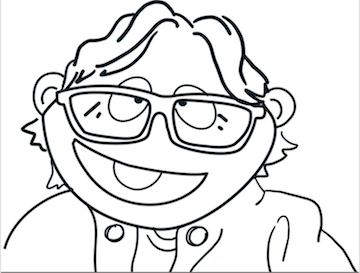
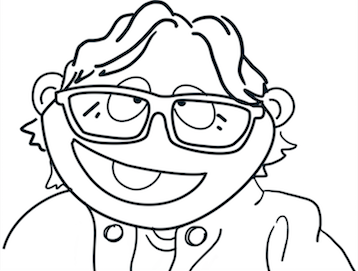
UI updates

diff --git a/main.css b/main.css
@@ -136,14 +136,25 @@ header .sub-title {
 .callout {
     background-color: #6f0e1b;
     background: linear-gradient(45deg, #960849 0%, #ea6c2f 100%);
-    padding: 1rem 2rem;
+    /* padding: 1rem 2rem; */
     text-align: center;
 }
 
 .callout a {
+    display: block;
+    width: 100%;
+    padding: 1rem 2rem;
     color: #fff;
     vertical-align: middle;
     text-decoration: none;
+
+    transition: 0.3s;
+}
+
+.callout a:hover,
+.callout a:focus {
+    background-color: rgba(0,0,0,0.5);
+    /* background-color: rgba(111, 14, 27, 0.5); */
 }
 
 .callout img {
@@ -154,6 +165,13 @@ header .sub-title {
 
 .content {
     padding: 2rem;
+}
+
+.ernie-sketch {
+    float: right;
+    width: 200px;
+    margin-left: 1rem;
+    margin-bottom: 1rem;
 }
 
 aside {

diff --git a/index.html b/index.html
@@ -79,7 +79,8 @@
             </div>
         </aside> -->
         <main>
-            <img style="float:left; display: none;" src="ERNIE.png" width="250" height="200" hspace="10" vspace="5">
+            <!-- <img style="float:left; display: none;" class="ernie-sketch" src="ERNIE.png" width="250" height="200" hspace="10" vspace="5"> -->
+            <img class="ernie-sketch" src="ERNIE.png">
     
             <p>
                 <a href="https://github.com/NETESOLUTIONS/ERNIE">ERNIE (Enhanced Research Network Informatics
